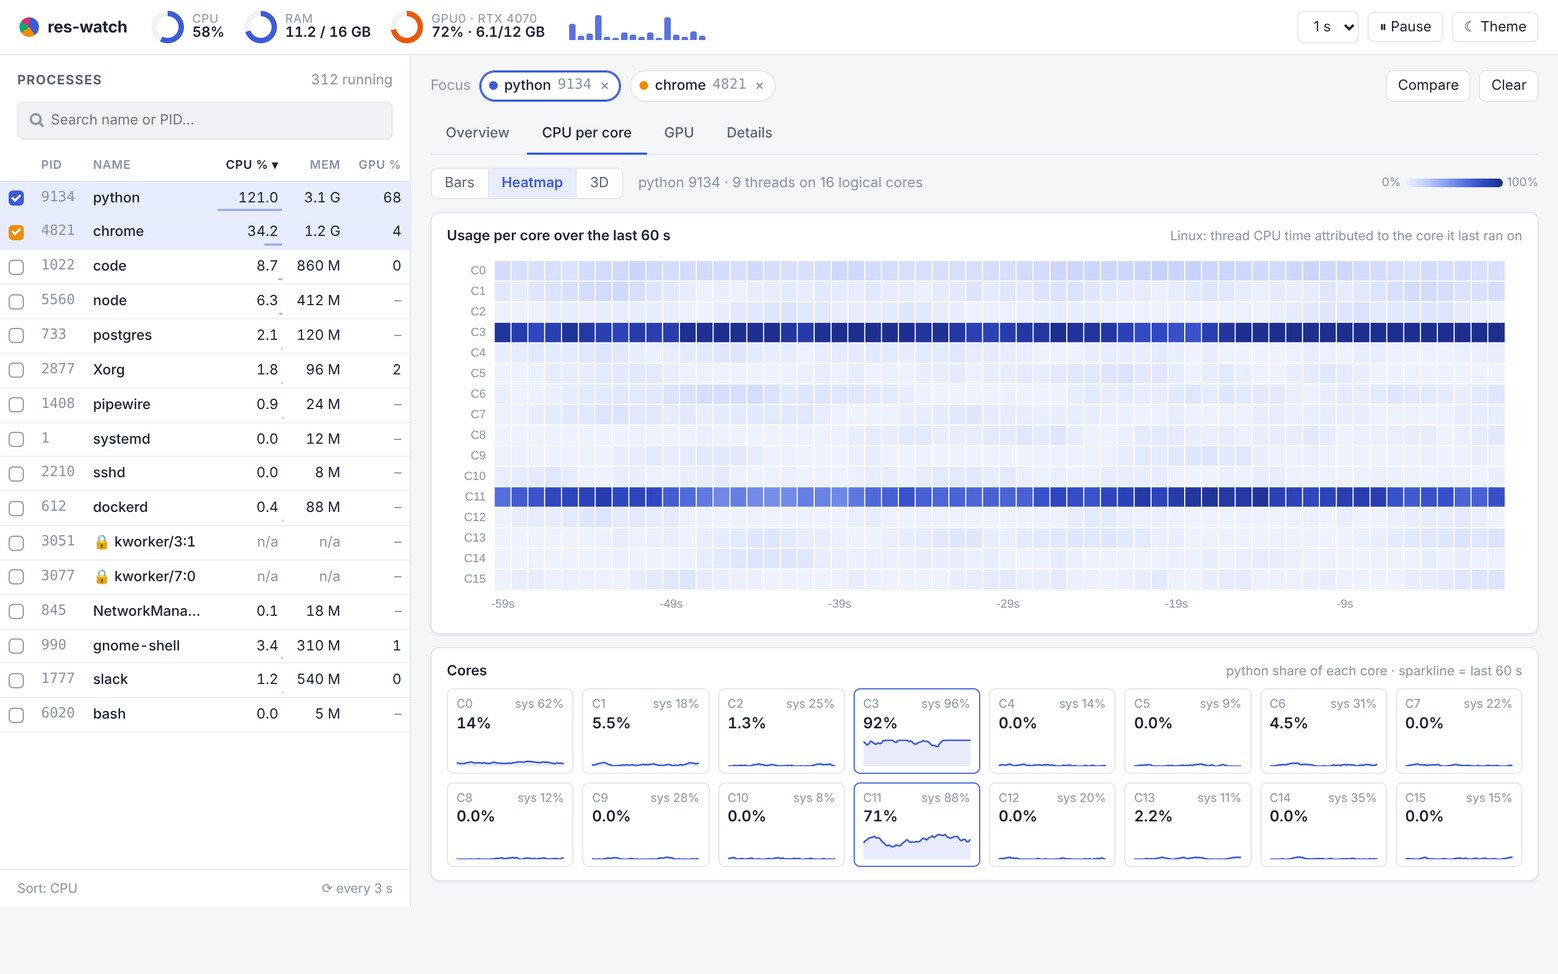
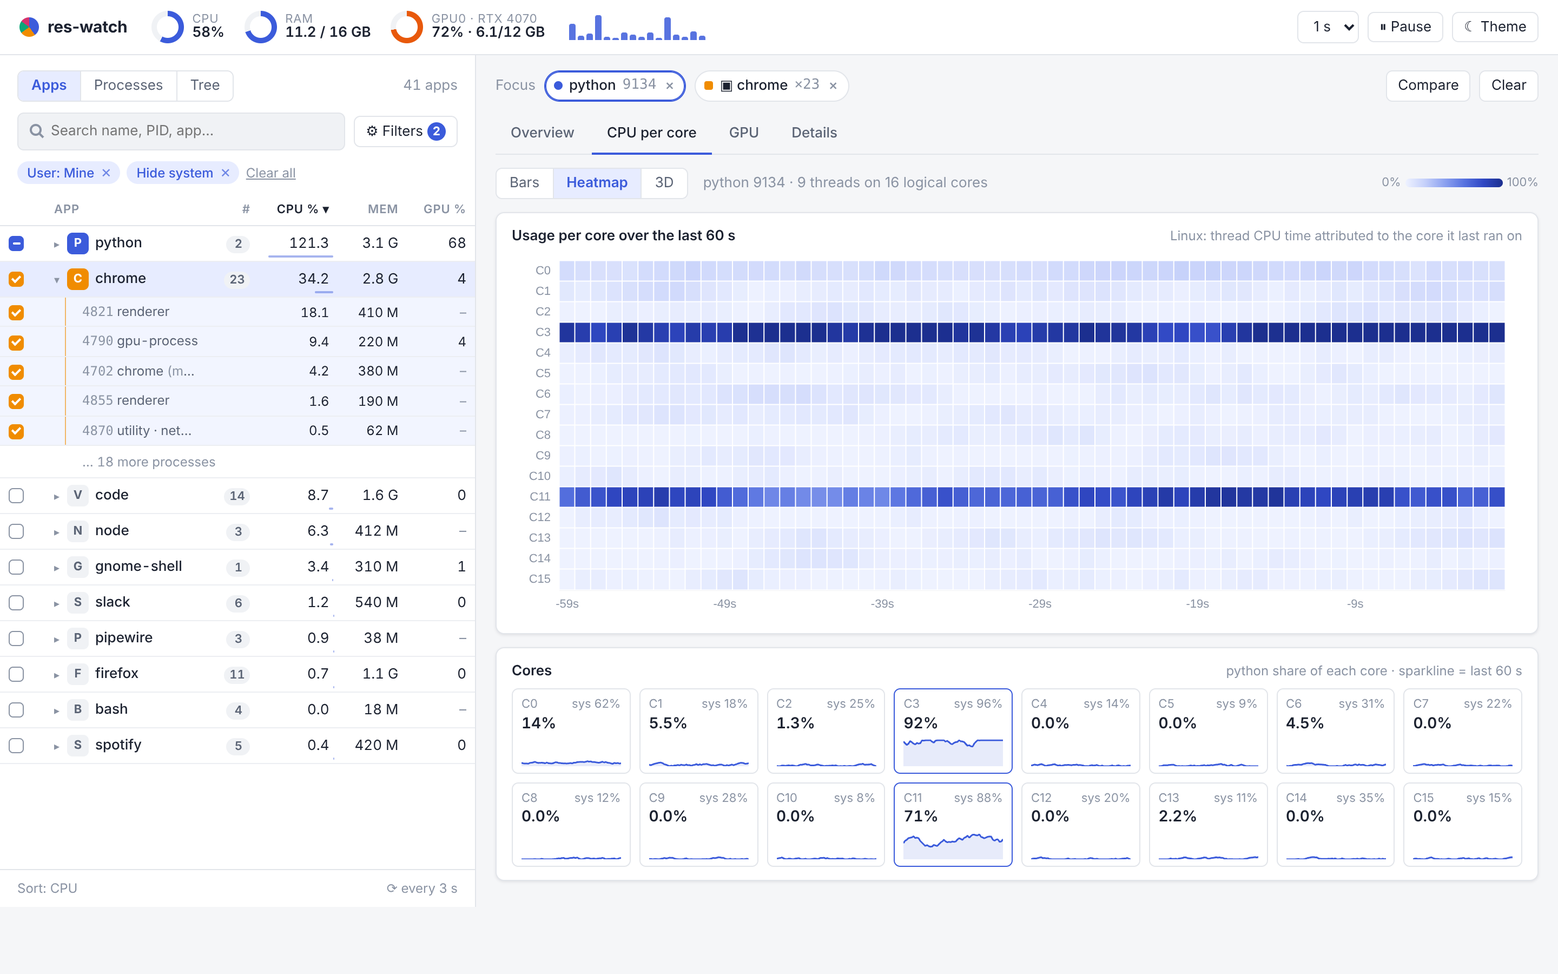
Mockup: add app-wise view, process tree and filters
Sidebar gets an Apps / Processes / Tree toggle, a Filters popover with
active-filter chips, whole-app selection (chrome x23) alongside single
processes, and an app Details tab with per-member CPU bars and a memory
treemap. Re-rendered all reference images and added ref-apps,
ref-filters, ref-tree and ref-app-details.

Claude-Session: https://claude.ai/code/session_01Mejdtr6aMS1RcSrQ4847xx

diff --git a/design/mockup.html b/design/mockup.html
@@ -31,18 +31,9 @@
   </nav>
   <div class="body" id="body">
     <aside class="sidebar">
-      <div class="side-head">
-        <div class="side-title"><h2>Processes</h2><span class="faint num">312 running</span></div>
-        <input class="search" placeholder="Search name or PID…">
-      </div>
+      <div class="side-head" id="sidehead"></div>
       <div class="ptable-wrap">
-        <table class="ptable">
-          <thead><tr>
-            <th class="l" style="width:22px"></th><th class="l">PID</th><th class="l">Name</th>
-            <th class="sorted">CPU % ▾</th><th>Mem</th><th>GPU %</th>
-          </tr></thead>
-          <tbody id="ptbody"></tbody>
-        </table>
+        <table class="ptable" id="ptable"></table>
       </div>
       <div class="side-foot"><span>Sort: CPU</span><span>⟳ every 3 s</span></div>
     </aside>
@@ -93,9 +84,36 @@ const procs = [
   {pid: 1777, name: 'slack',    user: 'abi',  cpu: 1.2,   mem: '540 M', gpu: 0},
   {pid: 6020, name: 'bash',     user: 'abi',  cpu: 0.0,   mem: '5 M',   gpu: null},
 ];
-const selected = EMPTY ? [] : procs.filter(p => p.sel).sort((a, b) => a.sel - b.sel);
+const SIDE = P.get('side') || 'apps';           // apps | procs | tree
+const FILTERS = P.get('filters') === '1';        // filter popover open
+procs[1].sel = 0;                                // chrome is selected as a whole app instead
+const chromeApp = {kind: 'app', key: 'chrome', name: 'chrome', pid: '×23', count: 23, cpu: 34.2, mem: '2.8 G', gpu: 4, threads: 312,
+  user: 'abi', up: '2h 14m', cmd: '23 processes · /opt/google/chrome/chrome'};
+const selected = EMPTY ? [] : [procs[0], chromeApp];
 selected.forEach((p, i) => p.color = C.s[i]);
 const focus = selected[0];
+const focusIdx = TAB === 'details' ? 1 : 0;
+
+// apps (grouped by cgroup scope / exe tree) — "Mine" filter active, so root/system apps are hidden
+const apps = [
+  {key: 'python', L: 'P', count: 2, cpu: 121.3, mem: '3.1 G', gpu: 68, part: true, members: [
+    {pid: 9134, name: 'python', role: 'train.py', cpu: 121.0, mem: '3.1 G', gpu: 68, sel: true},
+    {pid: 9101, name: 'python', role: 'tensorboard', cpu: 0.3, mem: '96 M', gpu: null}]},
+  {key: 'chrome', L: 'C', count: 23, cpu: 34.2, mem: '2.8 G', gpu: 4, sel: true, open: true, members: [
+    {pid: 4821, name: 'renderer', cpu: 18.1, mem: '410 M', gpu: null},
+    {pid: 4790, name: 'gpu-process', cpu: 9.4, mem: '220 M', gpu: 4},
+    {pid: 4702, name: 'chrome', role: 'main', cpu: 4.2, mem: '380 M', gpu: null},
+    {pid: 4855, name: 'renderer', cpu: 1.6, mem: '190 M', gpu: null},
+    {pid: 4870, name: 'utility · network', cpu: 0.5, mem: '62 M', gpu: null}], more: 18},
+  {key: 'code', L: 'V', count: 14, cpu: 8.7, mem: '1.6 G', gpu: 0},
+  {key: 'node', L: 'N', count: 3, cpu: 6.3, mem: '412 M', gpu: null},
+  {key: 'gnome-shell', L: 'G', count: 1, cpu: 3.4, mem: '310 M', gpu: 1},
+  {key: 'slack', L: 'S', count: 6, cpu: 1.2, mem: '540 M', gpu: 0},
+  {key: 'pipewire', L: 'P', count: 3, cpu: 0.9, mem: '38 M', gpu: null},
+  {key: 'firefox', L: 'F', count: 11, cpu: 0.7, mem: '1.1 G', gpu: 0},
+  {key: 'bash', L: 'B', count: 4, cpu: 0.0, mem: '18 M', gpu: null},
+  {key: 'spotify', L: 'S', count: 5, cpu: 0.4, mem: '420 M', gpu: 0},
+];
 
 const sysCores = Array.from({length: CORES}, (_, i) => [62, 18, 25, 96, 14, 9, 31, 22, 12, 28, 8, 88, 20, 11, 35, 15][i]);
 // python: 1 hot core (C3) + C11 busy + light spread; chrome: light spread
@@ -117,17 +135,79 @@ document.getElementById('meters').innerHTML =
   meter('CPU', '58%', 58) + meter('RAM', '11.2 / 16 GB', 70, 'optional') + meter('GPU0 · RTX 4070', '72% · 6.1/12 GB', 72);
 document.getElementById('corestrip').innerHTML = sysCores.map((v, i) => `<i title="C${i} ${v}%" style="height:${Math.max(8, v)}%"></i>`).join('');
 
-// ---------- process table ----------
-document.getElementById('ptbody').innerHTML = procs.map(p => `
-  <tr class="${p.sel && !EMPTY ? 'sel' : ''}" style="${p.color ? `--c:${p.color}` : ''}">
-    <td class="l"><span class="chk"></span></td>
-    <td class="l mono faint">${p.pid}</td>
-    <td class="l name" title="${p.name}">${p.denied ? '🔒 ' : ''}${p.name}</td>
-    ${p.denied
-      ? '<td class="denied">n/a</td><td class="denied">n/a</td><td class="denied">–</td>'
-      : `<td class="bar-cell">${p.cpu.toFixed(1)}<span class="b" style="width:${Math.min(60, p.cpu / 2)}px"></span></td>
-         <td>${p.mem}</td><td class="${p.gpu == null ? 'faint' : ''}">${p.gpu == null ? '–' : p.gpu}</td>`}
-  </tr>`).join('');
+// ---------- sidebar ----------
+const sel = !EMPTY;
+const cpuCell = v => `<td class="bar-cell">${v.toFixed(1)}<span class="b" style="width:${Math.min(60, v / 2)}px"></span></td>`;
+const gpuCell = g => `<td class="${g == null ? 'faint' : ''}">${g == null ? '–' : g}</td>`;
+document.getElementById('sidehead').innerHTML = `
+  <div class="side-title">
+    <div class="seg">${[['apps', 'Apps'], ['procs', 'Processes'], ['tree', 'Tree']].map(([k, l]) => `<button class="${k === SIDE ? 'on' : ''}">${l}</button>`).join('')}</div>
+    <span class="faint num">${SIDE === 'apps' ? '41 apps' : '187 / 312 shown'}</span>
+  </div>
+  <div class="side-row">
+    <input class="search" placeholder="Search name, PID, app…">
+    <button class="btn fbtn ${FILTERS ? 'on' : ''}">⚙ Filters<span class="n">2</span></button>
+  </div>
+  <div class="fchips"><span class="fchip">User: Mine <span class="x">✕</span></span><span class="fchip">Hide system <span class="x">✕</span></span><button class="linkbtn">Clear all</button></div>
+  ${FILTERS ? `<div class="popover">
+    <h4>Filters</h4>
+    <div class="prow"><span>User</span><div><label><input type="radio" name="u" checked> Mine</label><label><input type="radio" name="u"> All</label><label><input type="radio" name="u"> System</label></div></div>
+    <div class="prow full"><label><input type="checkbox" checked> Hide kernel threads &amp; system services</label></div>
+    <div class="prow full"><label><input type="checkbox"> Only processes using the GPU</label></div>
+    <div class="prow"><span>Min CPU</span><div class="slider"><div class="track"><i style="width:4%"></i><b style="left:4%"></b></div><span class="num">2%</span></div></div>
+    <div class="prow"><span>Status</span><div><label><input type="checkbox" checked> running</label><label><input type="checkbox" checked> sleeping</label><label><input type="checkbox"> zombie</label></div></div>
+    <div class="prow"><span>Group by</span><div><select class="btn"><option>App (cgroup / bundle / tree)</option><option>Executable</option><option>User</option></select></div></div>
+    <div class="pfoot"><button class="btn">Reset</button><button class="btn primary">Done</button></div>
+  </div>` : ''}`;
+
+const ptable = document.getElementById('ptable');
+if (SIDE === 'apps') {
+  ptable.innerHTML = `<thead><tr><th class="l" style="width:22px"></th><th class="l">App</th><th>#</th><th class="sorted">CPU % ▾</th><th>Mem</th><th>GPU %</th></tr></thead><tbody>` +
+    apps.map(a => {
+      const c = a.key === 'chrome' ? C.s[1] : a.key === 'python' ? C.s[0] : '';
+      const cls = sel && a.sel ? 'sel' : sel && a.part ? 'part' : '';
+      let h = `<tr class="${cls}" style="${c ? `--c:${c}` : ''}"><td class="l"><span class="chk"></span></td>
+        <td class="l name" style="max-width:150px"><span class="twist">${a.open ? '▾' : '▸'}</span><span class="avatar">${a.L}</span>${a.key}</td>
+        <td><span class="count">${a.count}</span></td>${cpuCell(a.cpu)}<td>${a.mem}</td>${gpuCell(a.gpu)}</tr>`;
+      if (a.open) {
+        h += a.members.map(m => `<tr class="member ${sel && (a.sel || m.sel) ? 'sel' : ''}" style="--c:${c}"><td class="l"><span class="chk"></span></td>
+          <td class="l name" title="${m.name}"><span class="mono faint">${m.pid}</span> ${m.name}${m.role ? ` <span class="faint">(${m.role})</span>` : ''}</td><td></td>
+          <td>${m.cpu.toFixed(1)}</td><td>${m.mem}</td>${gpuCell(m.gpu)}</tr>`).join('');
+        if (a.more) h += `<tr class="more" style="--c:${c}"><td></td><td class="l" colspan="5">… ${a.more} more processes</td></tr>`;
+      }
+      return h;
+    }).join('') + '</tbody>';
+} else if (SIDE === 'procs') {
+  const rows = [
+    {...procs[0], app: 'python', c: C.s[0], sel: 1}, {pid: 4821, name: 'renderer', app: 'chrome', cpu: 18.1, mem: '410 M', gpu: null, c: C.s[1], sel: 1},
+    {pid: 4790, name: 'gpu-process', app: 'chrome', cpu: 9.4, mem: '220 M', gpu: 4, c: C.s[1], sel: 1},
+    {pid: 1022, name: 'code', app: 'code', cpu: 8.7, mem: '860 M', gpu: 0}, {pid: 5560, name: 'node', app: 'node', cpu: 6.3, mem: '412 M', gpu: null},
+    {pid: 4702, name: 'chrome', app: 'chrome', cpu: 4.2, mem: '380 M', gpu: null, c: C.s[1], sel: 1},
+    {pid: 990, name: 'gnome-shell', app: 'gnome-shell', cpu: 3.4, mem: '310 M', gpu: 1}, {pid: 1033, name: 'code', app: 'code', cpu: 2.2, mem: '240 M', gpu: null},
+    {pid: 4855, name: 'renderer', app: 'chrome', cpu: 1.6, mem: '190 M', gpu: null, c: C.s[1], sel: 1},
+    {pid: 1777, name: 'slack', app: 'slack', cpu: 1.2, mem: '540 M', gpu: 0}, {pid: 1408, name: 'pipewire', app: 'pipewire', cpu: 0.9, mem: '24 M', gpu: null},
+    {pid: 7021, name: 'firefox', app: 'firefox', cpu: 0.7, mem: '480 M', gpu: 0}, {pid: 4870, name: 'utility', app: 'chrome', cpu: 0.5, mem: '62 M', gpu: null, c: C.s[1], sel: 1},
+    {pid: 8810, name: 'spotify', app: 'spotify', cpu: 0.4, mem: '310 M', gpu: 0}, {pid: 9101, name: 'python', app: 'python', cpu: 0.3, mem: '96 M', gpu: null},
+    {pid: 6020, name: 'bash', app: 'bash', cpu: 0.0, mem: '5 M', gpu: null},
+  ];
+  ptable.innerHTML = `<thead><tr><th class="l" style="width:22px"></th><th class="l">PID</th><th class="l">Name</th><th class="l">App</th><th class="sorted">CPU % ▾</th><th>Mem</th><th>GPU</th></tr></thead><tbody>` +
+    rows.map(p => `<tr class="${sel && p.sel ? 'sel' : ''}" style="${p.c ? `--c:${p.c}` : ''}"><td class="l"><span class="chk"></span></td>
+      <td class="l mono faint">${p.pid}</td><td class="l name">${p.name}</td><td class="l"><span class="appbadge">${p.app}</span></td>
+      ${cpuCell(p.cpu)}<td>${p.mem}</td>${gpuCell(p.gpu)}</tr>`).join('') + '</tbody>';
+} else {
+  const tree = [
+    ['', 1, 'systemd', 0.0, '12 M'], ['├─ ', 845, 'NetworkManager', 0.1, '18 M'], ['├─ ', 980, 'systemd --user', 0.0, '9 M'],
+    ['│  ├─ ', 990, 'gnome-shell', 3.4, '310 M'], ['│  │  ├─ ', 4702, 'chrome', 4.2, '380 M', 1], ['│  │  │  ├─ ', 4790, 'chrome · gpu-process', 9.4, '220 M', 1],
+    ['│  │  │  ├─ ', 4821, 'chrome · renderer', 18.1, '410 M', 1], ['│  │  │  ├─ ', 4855, 'chrome · renderer', 1.6, '190 M', 1],
+    ['│  │  │  └─ ', 4870, 'chrome · utility', 0.5, '62 M', 1], ['│  │  ├─ ', 1022, 'code', 8.7, '860 M'], ['│  │  │  └─ ', 1033, 'code · extensionHost', 2.2, '240 M'],
+    ['│  │  └─ ', 1777, 'slack', 1.2, '540 M'], ['│  ├─ ', 1408, 'pipewire', 0.9, '24 M'], ['│  └─ ', 6020, 'bash', 0.0, '5 M'],
+    ['│     ├─ ', 9134, 'python train.py', 121.0, '3.1 G', 0], ['│     └─ ', 9101, 'python tensorboard', 0.3, '96 M'], ['└─ ', 612, 'dockerd', 0.4, '88 M'],
+  ];
+  ptable.innerHTML = `<thead><tr><th class="l" style="width:22px"></th><th class="l">Process tree</th><th class="sorted">CPU %</th><th>Mem</th></tr></thead><tbody>` +
+    tree.map(([pfx, pid, name, cpu, mem, s]) => `<tr class="${sel && s != null ? 'sel' : ''}" style="${s != null ? `--c:${C.s[s === 1 ? 1 : 0]}` : ''}">
+      <td class="l"><span class="chk"></span></td><td class="l name" style="max-width:250px"><span class="tree-pfx">${pfx}</span><span class="mono faint">${pid}</span> ${name}</td>
+      <td>${cpu.toFixed(1)}</td><td>${mem}</td></tr>`).join('') + '</tbody>';
+}
 
 // ---------- main ----------
 const main = document.getElementById('main');
@@ -151,7 +231,7 @@ const lineOpt = (series, {unit = '', max} = {}) => ({
 function focusBar() {
   return `<div class="focusbar">
     <span class="faint">Focus</span>
-    ${selected.map((p, i) => `<span class="chip ${i === 0 ? 'active' : ''}" style="--c:${p.color}"><span class="dot"></span>${p.name} <span class="faint mono">${p.pid}</span><span class="x">×</span></span>`).join('')}
+    ${selected.map((p, i) => `<span class="chip ${i === focusIdx ? 'active' : ''}" style="--c:${p.color}"><span class="dot ${p.kind === 'app' ? 'sq' : ''}"></span>${p.kind === 'app' ? '▣ ' : ''}${p.name} <span class="faint mono">${p.pid}</span><span class="x">×</span></span>`).join('')}
     <span class="spacer" style="flex:1"></span>
     <button class="btn">Compare</button><button class="btn">Clear</button>
   </div>
@@ -194,7 +274,7 @@ if (EMPTY) {
                        {name: 'chrome', data: walk(4, 4, 0, 12), color: selected[1].color}], {unit: '%', max: 100}));
   let m = 2.6; const memA = Array.from({length: N}, () => (m = Math.min(3.1, m + rnd() * 0.02)));
   mk('c-mem', lineOpt([{name: 'python', data: memA, color: selected[0].color, areaStyle: {opacity: 0.08}},
-                       {name: 'chrome', data: walk(1.2, 0.05, 1.1, 1.3), color: selected[1].color}], {unit: ' G'}));
+                       {name: 'chrome', data: walk(2.75, 0.06, 2.6, 2.9), color: selected[1].color}], {unit: ' G'}));
   mk('c-io', lineOpt([{name: 'python read', data: walk(820, 600, 0, 2400), color: selected[0].color},
                       {name: 'python write', data: walk(260, 300, 0, 900), color: selected[0].color, lineStyle: {width: 2, type: 'dashed'}},
                       {name: 'chrome read', data: walk(60, 80, 0, 300), color: selected[1].color},
@@ -333,12 +413,43 @@ if (EMPTY) {
     series: [{type: 'bar', barWidth: 18, data: [{value: 10, itemStyle: {color: C.text3}}, {value: 4, itemStyle: {color: selected[1].color}}, {value: 68, itemStyle: {color: selected[0].color}}],
       itemStyle: {borderRadius: [0, 4, 4, 0]}, label: {show: true, position: 'right', color: C.text, formatter: '{c}%'}}]});
 } else {
-  main.innerHTML = focusBar() + `<div class="grid g2">${selected.map(p => `
-    <div class="card"><div class="card-h"><h3><span style="color:${p.color}">●</span> ${p.name}</h3><span class="badge ok">running</span></div>
-      <dl class="kv"><dt>PID</dt><dd class="mono">${p.pid}</dd><dt>User</dt><dd>${p.user}</dd><dt>Uptime</dt><dd>${p.up}</dd>
-      <dt>Threads</dt><dd>${p.threads}</dd><dt>Command</dt><dd class="mono">${p.cmd}</dd></dl></div>`).join('')}
-    <div class="card exited"><div class="card-h"><h3><span style="color:${C.s[2]}">●</span> make <span class="faint mono">7702</span></h3><span class="badge gone">EXITED 12:41:07</span></div>
-      <p class="muted" style="margin:0">Series kept until removed. <button class="btn">Remove</button></p></div></div>`;
+  // Details tab — focused on the chrome *app*: member breakdown
+  const col = chromeApp.color;
+  const mem = [['renderer 4821', 410], ['chrome (main) 4702', 380], ['gpu-process 4790', 220], ['renderer 4855', 190], ['renderer 4861', 170],
+    ['renderer 4877', 150], ['extension 4740', 120], ['utility · network 4870', 62], ['utility · audio 4881', 40], ['14 others', 1060]];
+  main.innerHTML = focusBar() + `
+    <div class="card"><div class="card-h"><h3><span class="avatar" style="background:${col};color:#fff">C</span>chrome <span class="faint">· app · 23 processes</span></h3><span class="badge ok">running</span></div>
+      <div class="stats" style="grid-template-columns:repeat(6,1fr)">
+        <div class="stat"><div class="k">CPU</div><div class="v num">34.2%</div><div class="d">2.1% of all cores</div></div>
+        <div class="stat"><div class="k">Memory</div><div class="v num">2.8 GB</div><div class="d">17% of RAM</div></div>
+        <div class="stat"><div class="k">GPU</div><div class="v num">4%</div><div class="d">310 MB VRAM</div></div>
+        <div class="stat"><div class="k">Processes</div><div class="v num">23</div><div class="d">+2 in last min</div></div>
+        <div class="stat"><div class="k">Threads</div><div class="v num">312</div><div class="d">across members</div></div>
+        <div class="stat"><div class="k">Disk I/O</div><div class="v num">88 KB/s</div><div class="d">read 60 · write 28</div></div>
+      </div>
+      <div class="faint" style="margin-top:8px">Grouped by cgroup <span class="mono">app-gnome-google-chrome-4702.scope</span> · user abi · started 2h 14m ago</div></div>
+    <div class="grid g2">
+      <div class="card"><div class="card-h"><h3>CPU by member process</h3><span class="sub">% of one core · now</span></div><div class="chart" id="c-mcpu" style="height:300px"></div></div>
+      <div class="card"><div class="card-h"><h3>Memory by member process</h3><span class="sub">RSS · treemap</span></div><div class="chart" id="c-mtree" style="height:300px"></div></div>
+    </div>
+    <div class="grid g2">
+      <div class="card"><div class="card-h"><h3><span style="color:${selected[0].color}">●</span> python <span class="faint mono">9134</span></h3><span class="badge ok">running</span></div>
+        <dl class="kv"><dt>App</dt><dd>python (2 processes)</dd><dt>User</dt><dd>abi</dd><dt>Uptime</dt><dd>5m 02s</dd><dt>Threads</dt><dd>9</dd><dt>Command</dt><dd class="mono">python train.py --epochs 40 --batch 64</dd></dl></div>
+      <div class="card exited"><div class="card-h"><h3><span style="color:${C.s[2]}">●</span> make <span class="faint mono">7702</span></h3><span class="badge gone">EXITED 12:41:07</span></div>
+        <p class="muted" style="margin:0">Series kept until removed. <button class="btn">Remove</button></p></div>
+    </div>`;
+  const cpuM = [['renderer 4821', 18.1], ['gpu-process 4790', 9.4], ['chrome (main) 4702', 4.2], ['renderer 4855', 1.6], ['utility · network 4870', 0.5], ['18 others', 0.4]].reverse();
+  mk('c-mcpu', {animation: false, grid: {left: 150, right: 50, top: 6, bottom: 22},
+    xAxis: {type: 'value', ...baseAxis, axisLabel: {...baseAxis.axisLabel, formatter: '{value}%'}},
+    yAxis: {type: 'category', data: cpuM.map(d => d[0]), ...baseAxis, splitLine: {show: false}, axisLabel: {color: C.text2}},
+    series: [{type: 'bar', barWidth: 16, data: cpuM.map(d => ({value: d[1], itemStyle: {color: d[0].includes('others') ? C.text3 : col}})),
+      itemStyle: {borderRadius: [0, 4, 4, 0]}, label: {show: true, position: 'right', color: C.text, formatter: '{c}%'}}]});
+  mk('c-mtree', {animation: false, tooltip: {formatter: p => `${p.name}: ${p.value} MB`},
+    series: [{type: 'treemap', roam: false, nodeClick: false, breadcrumb: {show: false}, width: '100%', height: '100%', top: 0, left: 0,
+      itemStyle: {borderColor: C.surface, borderWidth: 2, gapWidth: 2},
+      label: {show: true, formatter: p => `{n|${p.name}}\n{v|${p.value >= 1000 ? (p.value / 1000).toFixed(1) + ' GB' : p.value + ' MB'}}`,
+        rich: {n: {color: '#fff', fontSize: 12, fontWeight: 600}, v: {color: 'rgba(255,255,255,.85)', fontSize: 11, padding: [3, 0, 0, 0]}}},
+      data: mem.map((d, i) => ({name: d[0], value: d[1], itemStyle: {color: d[0].includes('others') ? C.text3 : col, opacity: d[0].includes('others') ? 1 : 1 - i * 0.07}}))}]});
 }
 </script>
 </body>

diff --git a/static/style.css b/static/style.css
@@ -92,7 +92,7 @@ button, input, select { font: inherit; color: inherit; }
 .btn.primary { background: var(--accent); border-color: var(--accent); color: #fff; }
 select.btn { padding-right: 6px; }
 
-.body { display: grid; grid-template-columns: 380px 1fr; min-height: 0; }
+.body { display: grid; grid-template-columns: 440px 1fr; min-height: 0; }
 
 /* ---------- sidebar / process table ---------- */
 .sidebar { border-right: 1px solid var(--border); background: var(--surface); display: flex; flex-direction: column; min-height: 0; }
@@ -201,7 +201,7 @@ table.ptable { width: 100%; border-collapse: collapse; }
 
 /* ---------- responsive ---------- */
 @media (max-width: 1100px) {
-  .body { grid-template-columns: 320px 1fr; }
+  .body { grid-template-columns: 360px 1fr; }
   .cores { grid-template-columns: repeat(4, minmax(0, 1fr)); }
   .g-gpu { grid-template-columns: 1fr; }
 }
@@ -222,3 +222,46 @@ table.ptable { width: 100%; border-collapse: collapse; }
   .cores { grid-template-columns: repeat(4, minmax(0, 1fr)); }
   .side-head { padding: 12px 16px 8px; }
 }
+
+/* ---------- sidebar: view toggle, filters, apps ---------- */
+.side-head { position: relative; }
+.side-row { display: flex; align-items: center; gap: 8px; }
+.side-row .search { flex: 1; }
+.fbtn { position: relative; white-space: nowrap; }
+.fbtn .n { display: inline-grid; place-items: center; min-width: 17px; height: 17px; padding: 0 4px; margin-left: 4px; border-radius: 999px; background: var(--accent); color: #fff; font-size: 11px; font-weight: 700; }
+.fbtn.on { border-color: var(--accent); color: var(--accent); }
+.fchips { display: flex; flex-wrap: wrap; align-items: center; gap: 6px; }
+.fchip { display: inline-flex; align-items: center; gap: 4px; padding: 2px 6px 2px 9px; border-radius: 999px; background: var(--accent-soft); color: var(--accent); font-size: 12px; font-weight: 500; }
+.fchip .x { opacity: 0.7; padding: 0 2px; cursor: pointer; }
+.linkbtn { border: 0; background: none; color: var(--text-3); cursor: pointer; font-size: 12px; text-decoration: underline; padding: 0; }
+.popover {
+  position: absolute; z-index: 20; right: 16px; top: 100%; margin-top: -6px; width: 320px;
+  background: var(--surface); border: 1px solid var(--border); border-radius: 10px; padding: 14px 16px;
+  box-shadow: 0 12px 32px rgba(16, 24, 40, 0.16), 0 2px 6px rgba(16, 24, 40, 0.08);
+}
+.popover h4 { margin: 0 0 10px; font-size: 13px; }
+.prow { display: grid; grid-template-columns: 74px 1fr; align-items: center; gap: 8px; padding: 6px 0; }
+.prow > span:first-child { color: var(--text-3); font-size: 12px; }
+.prow label { display: inline-flex; align-items: center; gap: 5px; margin-right: 8px; cursor: pointer; }
+.prow.full { grid-template-columns: 1fr; }
+.slider { display: flex; align-items: center; gap: 8px; }
+.slider .track { flex: 1; height: 4px; border-radius: 2px; background: var(--surface-2); position: relative; }
+.slider .track i { position: absolute; left: 0; top: 0; bottom: 0; border-radius: 2px; background: var(--accent); }
+.slider .track b { position: absolute; top: 50%; width: 14px; height: 14px; margin: -7px 0 0 -7px; border-radius: 50%; background: var(--surface); border: 2px solid var(--accent); }
+.pfoot { display: flex; justify-content: flex-end; gap: 8px; margin-top: 10px; padding-top: 10px; border-top: 1px solid var(--border); }
+.dim { opacity: 0.45; pointer-events: none; }
+
+.avatar { display: inline-grid; place-items: center; width: 20px; height: 20px; border-radius: 5px; font-size: 11px; font-weight: 700; background: var(--surface-2); color: var(--text-2); vertical-align: middle; margin-right: 6px; }
+.sel .avatar, .part .avatar { background: var(--c); color: #fff; }
+.twist { display: inline-block; width: 12px; color: var(--text-3); font-size: 10px; }
+.count { display: inline-block; min-width: 22px; padding: 0 5px; border-radius: 999px; background: var(--surface-2); color: var(--text-2); font-size: 11px; text-align: center; font-weight: 600; }
+.ptable tr.member td { background: transparent; font-size: 12px; padding-top: 4px; padding-bottom: 4px; }
+.ptable tr.member.sel { background: color-mix(in srgb, var(--accent-soft) 55%, transparent); }
+.ptable tr.member td.name { padding-left: 34px; position: relative; font-weight: 400; color: var(--text-2); }
+.ptable tr.member td.name::before { content: ""; position: absolute; left: 18px; top: 0; bottom: 0; border-left: 1.5px solid var(--c, var(--border)); opacity: 0.6; }
+.ptable tr.more td { color: var(--text-3); font-size: 12px; padding-left: 34px; }
+.part .chk { border-color: var(--c); background: var(--c); }
+.part .chk::after { content: ""; width: 7px; height: 2px; background: #fff; border-radius: 1px; }
+.tree-pfx { color: var(--text-3); font-family: ui-monospace, SFMono-Regular, Menlo, Consolas, monospace; white-space: pre; }
+.chip .dot.sq { border-radius: 2px; }
+.appbadge { display: inline-block; font-size: 11px; font-weight: 600; padding: 0 6px; border-radius: 4px; background: var(--surface-2); color: var(--text-2); margin-left: 2px; }
